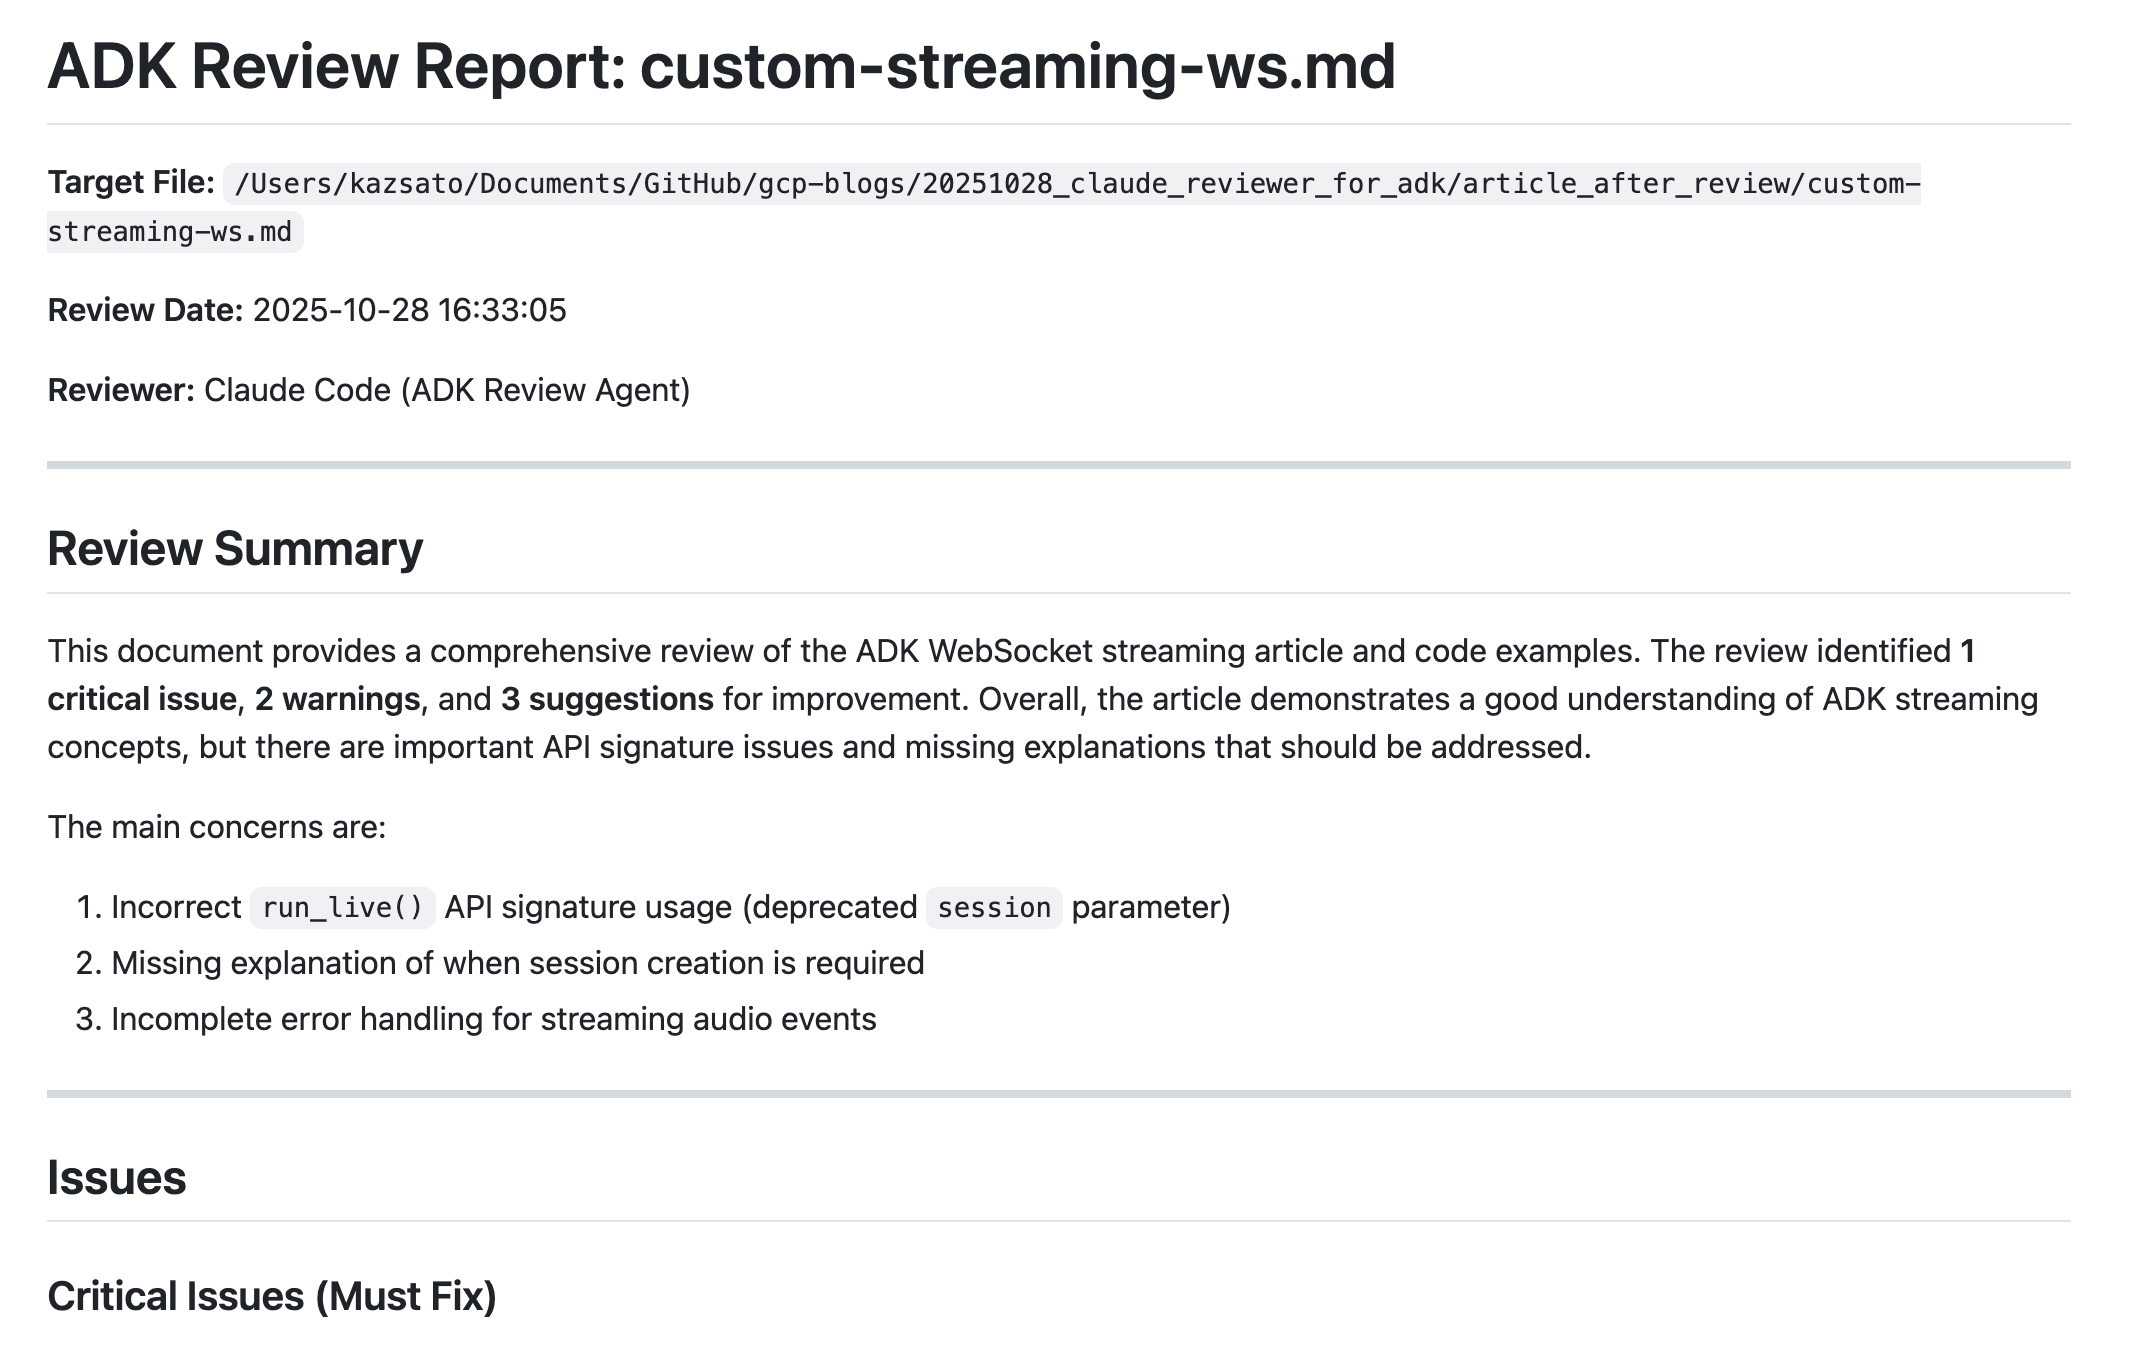
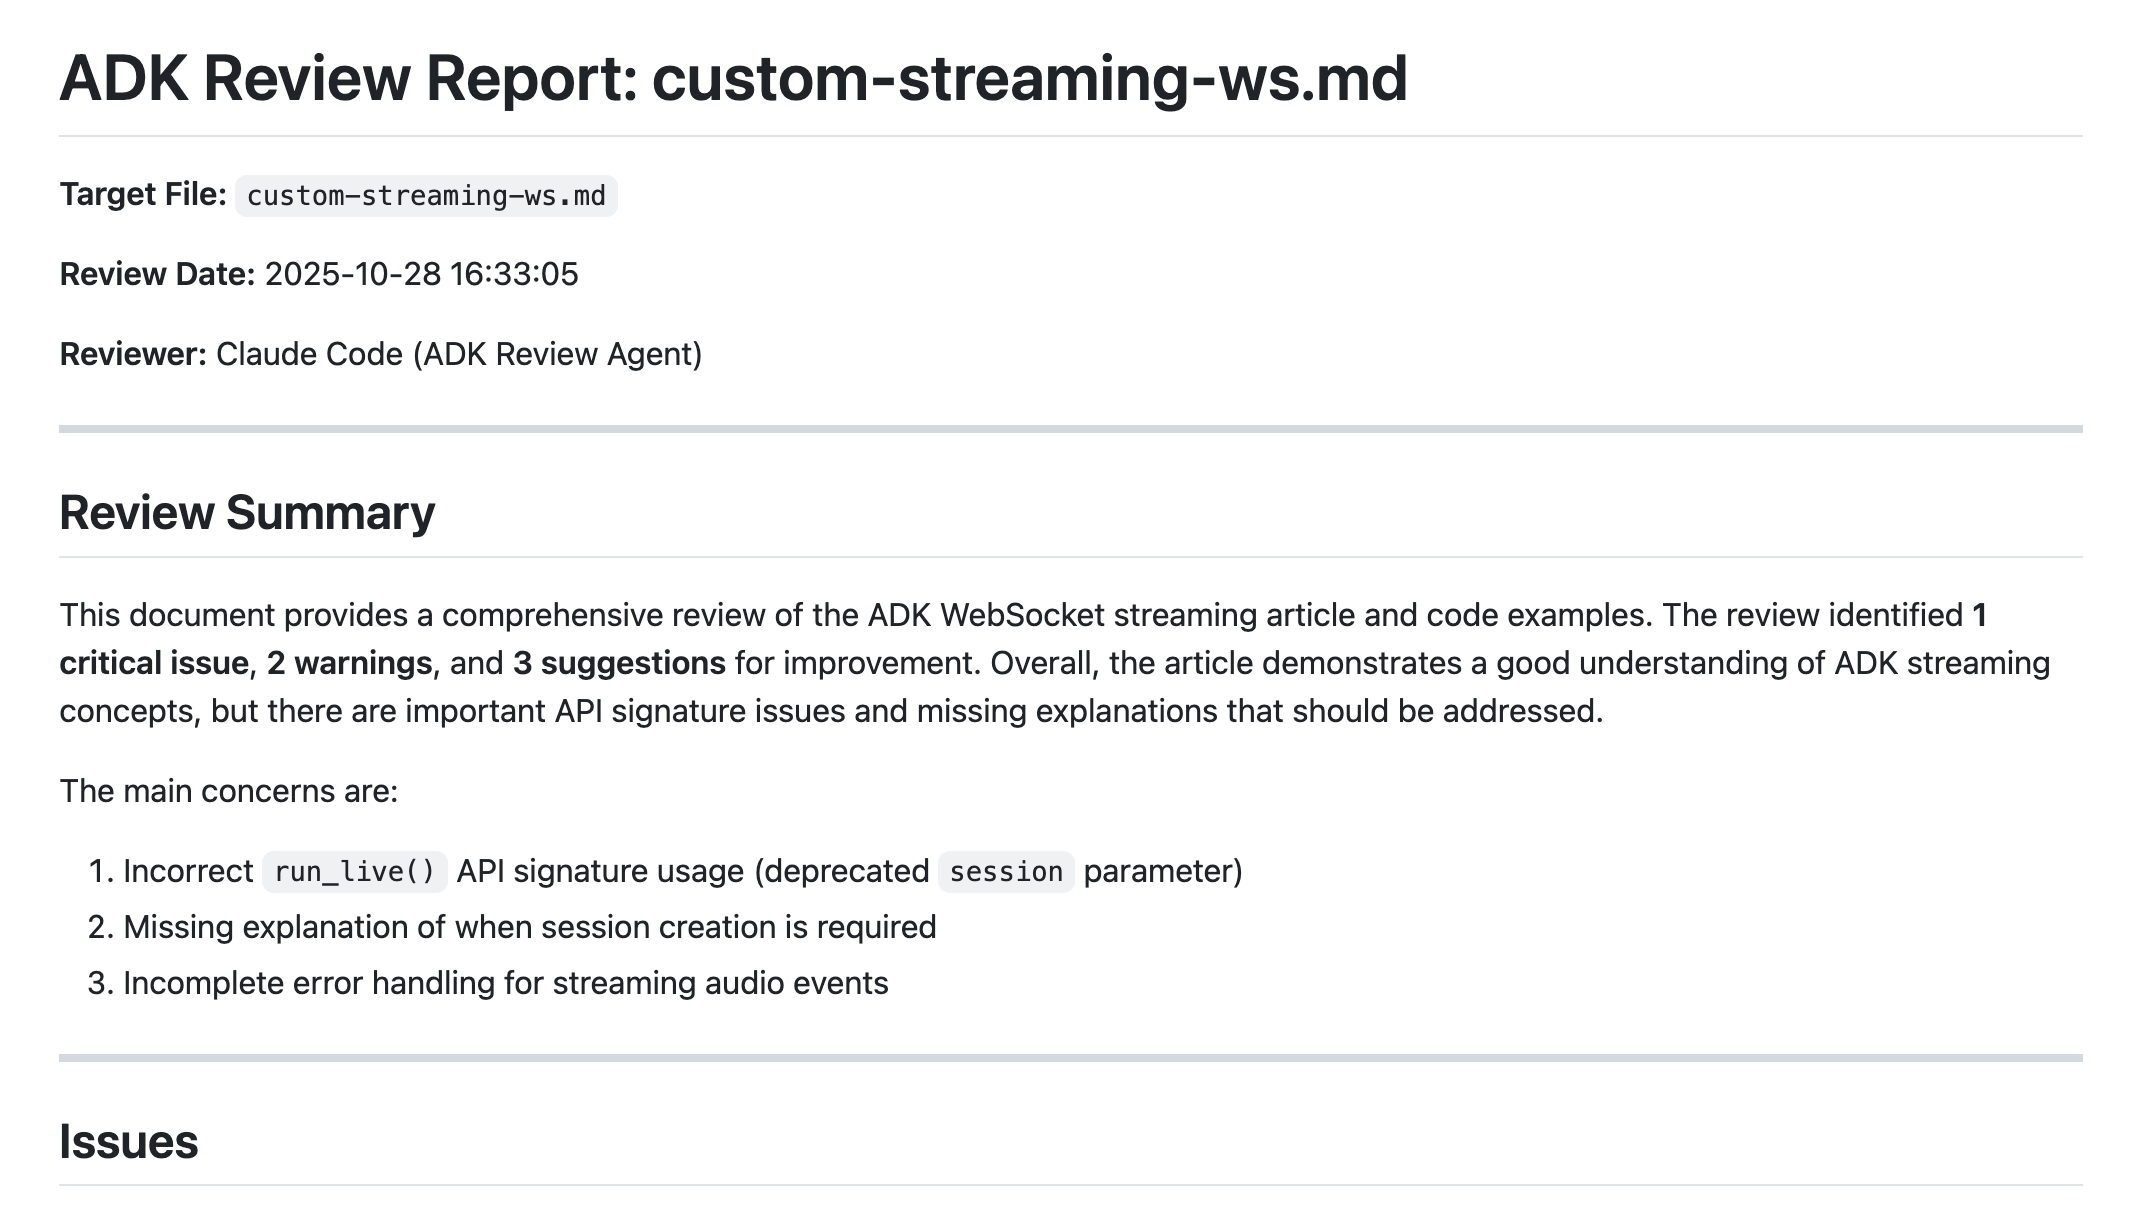
Add hero image and update article assets
- Add Ernest and agent illustration as hero image in article.md
- Update ADK reviewer report screenshot
- Update documentation reviewer report screenshot

🤖 Generated with [Claude Code](https://claude.com/claude-code)

diff --git a/20251028_claude_reviewer_for_adk/article.md b/20251028_claude_reviewer_for_adk/article.md
@@ -2,6 +2,8 @@
 
 As a developer advocate, I've always faced a challenge: how do you maintain high-quality technical documentation that's technically accurate, well-written, and consistent with the latest updates? Recently, I discovered a powerful approach using [Claude Code](https://docs.claude.com/en/docs/claude-code)'s subagents and agent skills that transformed my workflow.
 
+![Ernest and agent](assets/ernest-and-agent.png)
+
 ## The Challenge: Updating a Complex Technical Article
 
 I recently needed to update my article on writing a custom application with [ADK Bidi-streaming](https://google.github.io/adk-docs/streaming/) for the latest version of the ADK:
